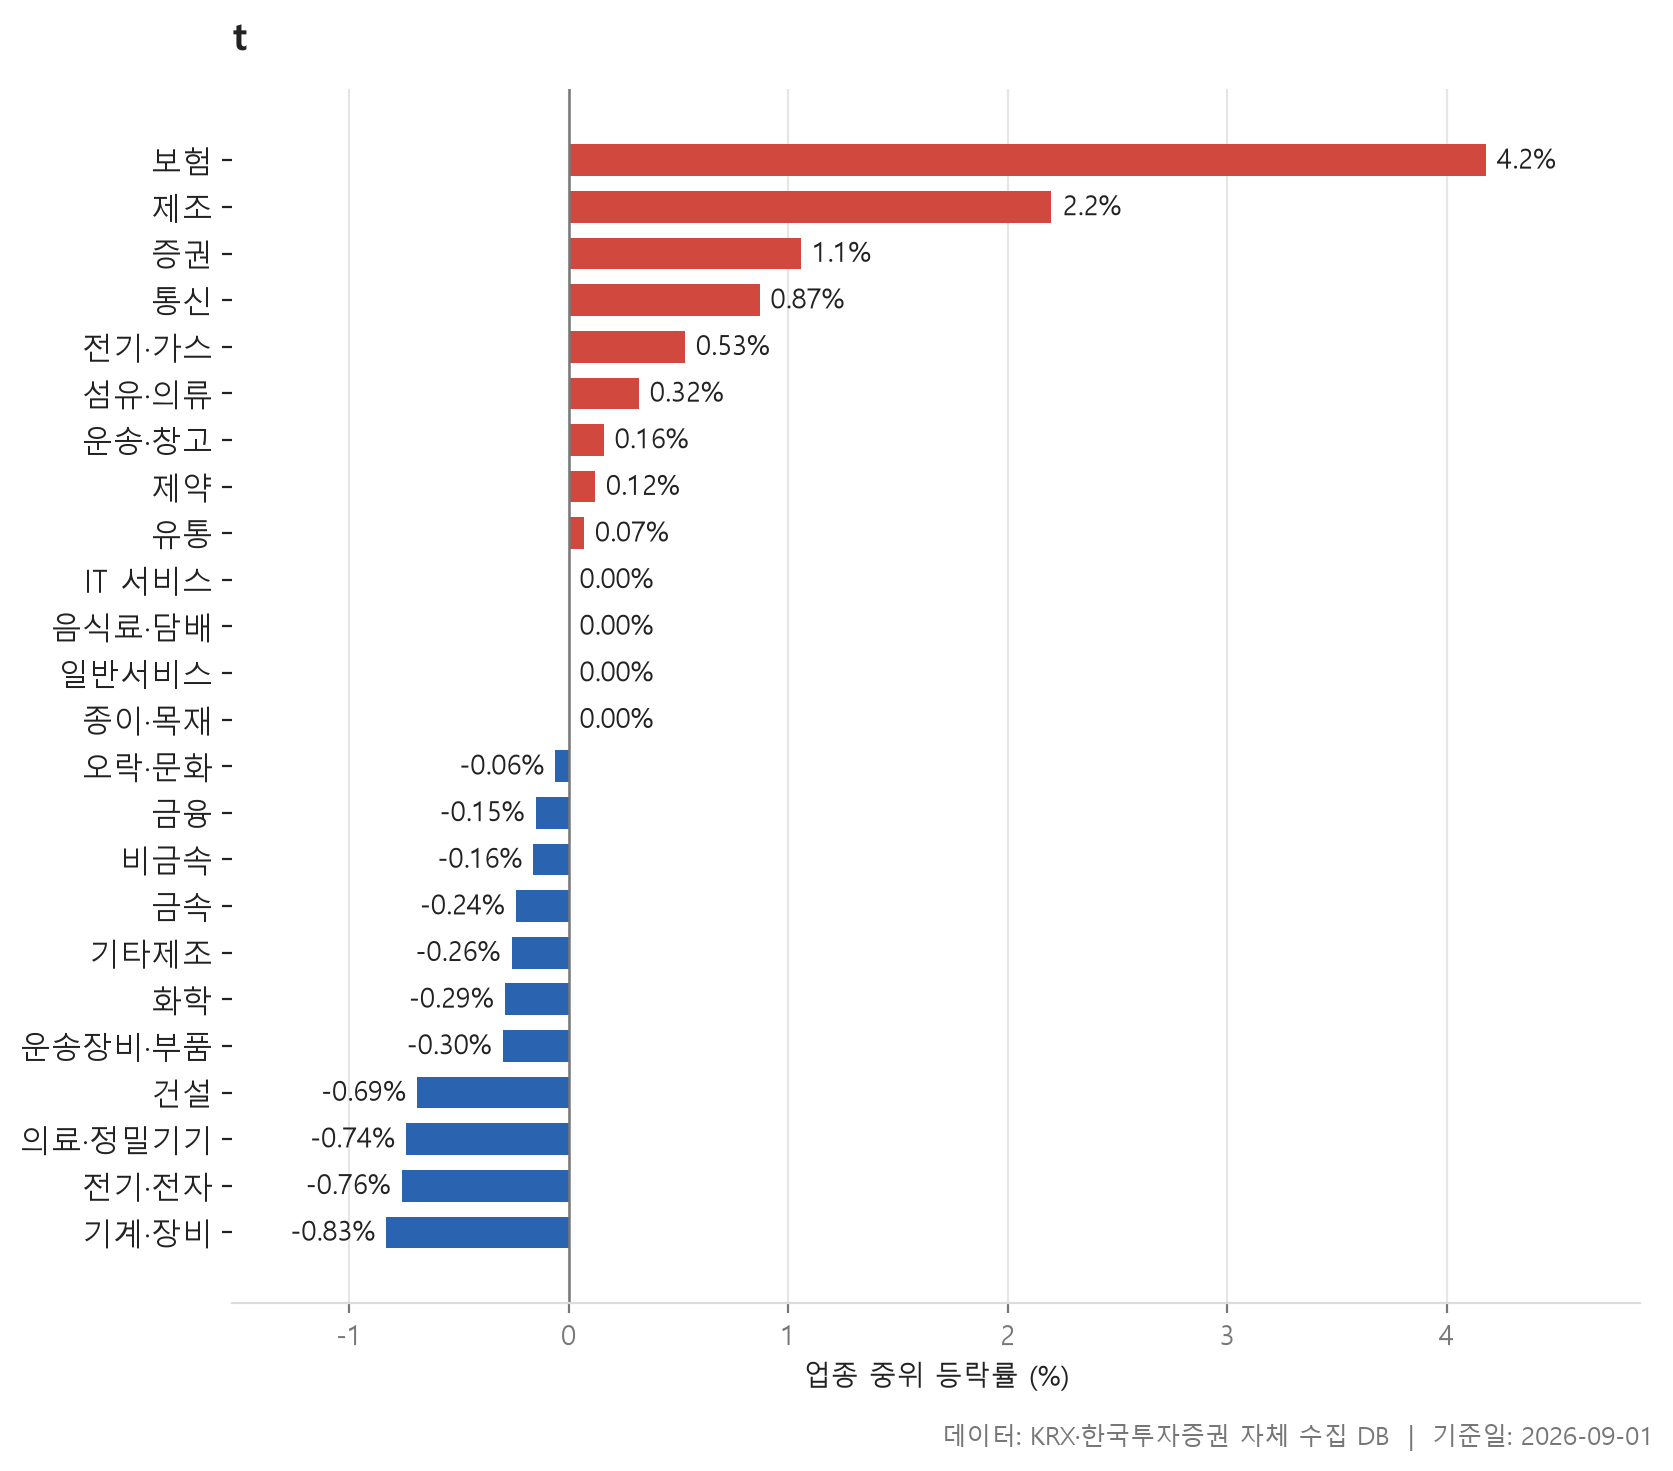
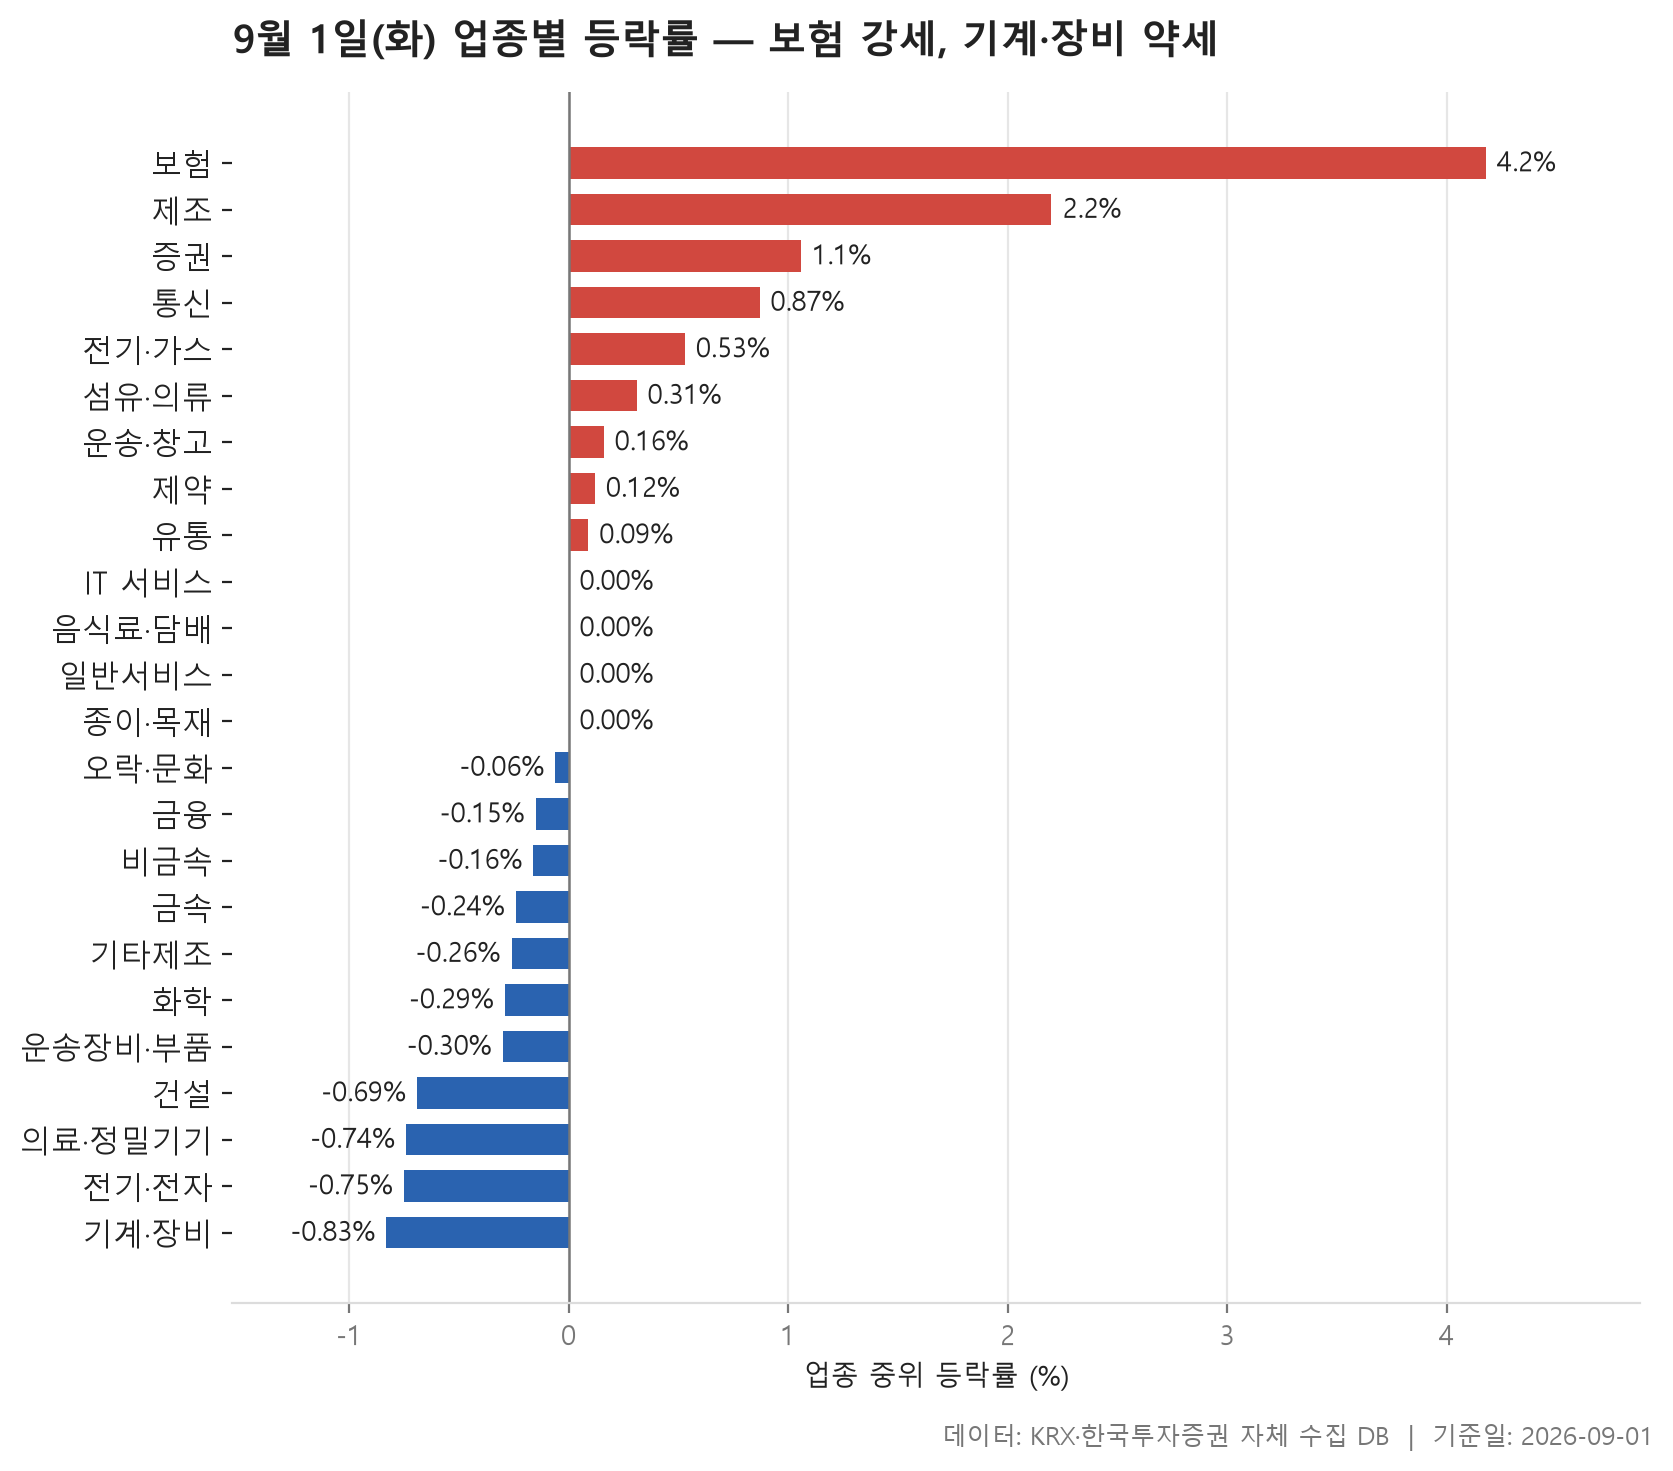
9/1 일간 글 숫자를 새 데이터에 맞춤
백필로 여섯 업종에서 종목이 하나씩 빠지면서 값이 움직였고, 초안이 다시 만든
데이터팩과 어긋나 재발행이 막혀 있었다. 문장은 그대로 두고 숫자만 고쳤다.

    본문 5곳   0.32->0.31  1.81->1.39  0.60->0.61
               168개->167개  115,673.80->115,673.10  -0.76->-0.75
    표  6행    섬유·의류 제약 유통 IT서비스 의료·정밀기기 전기·전자

고치기 전에 문장이 바뀐 값으로도 참인지 확인했다.

    "중위 0.31%인데 평균이 1.39%"          중위 < 평균 유지
    "평균기여도가 0.61%p인데 격차는 더 큽니다"  격차 1.08%p > 0.61%p 유지
    "115,673.10억원으로 압도적"            여전히 최대

팩트체커가 못 잡은 것이 둘 있었다. 제약 종목수 168 은 다른 행에도 168 이
있어 원장을 통과했고, 의료·정밀기기 99 는 본문의 "99,484주" 와 겹쳤다.
원장 대조만으로는 "값이 맞는 자리에 있는가" 까지는 보지 못한다.

diff --git a/content/posts/2026-09-01-daily-market/index.md b/content/posts/2026-09-01-daily-market/index.md
@@ -1,7 +1,7 @@
 ---
 title: "9월 1일(화) 오늘의 시장 — 보험 강세, 기계·장비 약세"
 date: 2026-09-01T16:10:00+09:00
-lastmod: 2026-09-01T19:28:15+09:00
+lastmod: 2026-09-03T17:24:11+09:00
 description: "업종 흐름, 52주 신고가·신저가, 거래량이 터진 종목을 한 번에 정리했습니다."
 categories: ["오늘의 시장"]
 draft: false
@@ -9,7 +9,7 @@ sourcePack: "blog/output/2026-09-01/2026-09-01-daily-market/pack.json"
 ---
 9월 1일 화요일 장이 끝났습니다. 오늘 시장은 한마디로 정리하기가 애매한 날이었습니다. 24개 업종 중 9개가 플러스, 11개가 마이너스였고, 업종 중위 등락률을 줄 세웠을 때 딱 가운데 놓인 값이 0%였습니다. 지수 한 방향으로 쏠린 날이 아니라, 업종별로 갈라진 날이라는 뜻입니다.
 
-다만 양쪽 끝은 분명했습니다. 위쪽 끝은 보험(4.18%), 아래쪽 끝은 기계·장비(-0.83%). 보험은 11개 종목 전부가 올랐고, 기계·장비는 207개 종목 중 상승비율이 32.90%에 그쳤습니다. 같은 날 신고가 명단 맨 위에도 보험 종목이 있고, 신저가 명단 맨 위에도 기계·장비 종목이 있으니 업종 표와 신고·신저가 표가 서로 같은 방향을 가리킨 셈입니다.
+다만 양쪽 끝은 분명했습니다. 위쪽 끝은 보험(4.18%), 아래쪽 끝은 기계·장비(<span class="chg chg-down">-0.83%</span>). 보험은 11개 종목 전부가 올랐고, 기계·장비는 207개 종목 중 상승비율이 32.90%에 그쳤습니다. 같은 날 신고가 명단 맨 위에도 보험 종목이 있고, 신저가 명단 맨 위에도 기계·장비 종목이 있으니 업종 표와 신고·신저가 표가 서로 같은 방향을 가리킨 셈입니다.
 
 아래에서는 업종 등락률, 52주 신고가 6개, 52주 신저가 2개, 그리고 거래량이 20일 평균의 5배를 넘은 20개 종목을 차례로 봅니다. 표에 적힌 숫자 안에서만 이야기하고, 왜 그렇게 움직였는지는 이 자료로 알 수 없으니 짐작하지 않겠습니다.
 
@@ -17,13 +17,13 @@ sourcePack: "blog/output/2026-09-01/2026-09-01-daily-market/pack.json"
 
 ## 업종 등락률 — 24개 중 11개 하락
 
-보시면 상위권이 유별나게 두껍지 않습니다. 보험이 4.18%로 혼자 앞서 있고, 그다음 제조가 2.20%, 그 아래 증권 1.06%로 뚝 떨어집니다. 4위 통신부터는 이미 0%대이고, 10위권에 들어서면 0.00%가 세 업종이나 나옵니다. 즉 오늘 '강했다'고 말할 수 있는 업종은 사실상 세 개 정도이고, 중간층은 거의 제자리였습니다. 반대로 하위권은 -0.06%부터 -0.83%까지 완만하게 내려가, 특별히 무너진 업종 없이 얕고 넓게 눌린 형태입니다.
+보시면 상위권이 유별나게 두껍지 않습니다. 보험이 4.18%로 혼자 앞서 있고, 그다음 제조가 2.20%, 그 아래 증권 1.06%로 뚝 떨어집니다. 4위 통신부터는 이미 0%대이고, 10위권에 들어서면 0.00%가 세 업종이나 나옵니다. 즉 오늘 '강했다'고 말할 수 있는 업종은 사실상 세 개 정도이고, 중간층은 거의 제자리였습니다. 반대로 하위권은 <span class="chg chg-down">-0.06%</span>부터 <span class="chg chg-down">-0.83%</span>까지 완만하게 내려가, 특별히 무너진 업종 없이 얕고 넓게 눌린 형태입니다.
 
 보험은 이 표에서 가장 깔끔한 항목입니다. 종목수 11개에 상승비율 100.00%, 중위 4.18%인데 평균은 3.53%로 오히려 중위보다 낮습니다. 주도종목 DB손해보험이 6.35%였지만 평균기여도는 0.58%p에 불과하니, 한 종목이 끌어올린 그림이 아니라 업종 전체가 함께 올라간 뒤 상단이 조금 더 벌어진 모습으로 읽힙니다. 이런 형태는 오늘 표에서 보험 말고는 찾기 어렵습니다.
 
-어긋나 보이는 대목은 중위값과 평균이 벌어진 업종들입니다. 섬유·의류는 중위 0.32%인데 평균이 1.81%입니다. 주도종목 인디에프가 29.98%로 상한가 수준이고 평균기여도가 0.60%p인데, 격차는 그보다 큽니다. 인디에프 하나만으로 설명되지 않고 다른 종목들도 함께 올랐다는 뜻이죠. 통신도 중위 0.87%에 평균 2.03%, 주도종목 더즌 10.70%에 기여도 0.89%p로 비슷한 구조입니다. 반대로 전기·가스는 중위 0.53%에 평균 0.01%, 주도종목 SGC에너지가 -6.31%로 기여도 -0.63%p이니, 여기서는 아래쪽 한 종목이 평균을 눌러 놓은 쪽에 가깝습니다.
+어긋나 보이는 대목은 중위값과 평균이 벌어진 업종들입니다. 섬유·의류는 중위 0.31%인데 평균이 1.39%입니다. 주도종목 인디에프가 29.98%로 상한가 수준이고 평균기여도가 0.61%p인데, 격차는 그보다 큽니다. 인디에프 하나만으로 설명되지 않고 다른 종목들도 함께 올랐다는 뜻이죠. 통신도 중위 0.87%에 평균 2.03%, 주도종목 더즌 10.70%에 기여도 0.89%p로 비슷한 구조입니다. 반대로 전기·가스는 중위 0.53%에 평균 0.01%, 주도종목 SGC에너지가 <span class="chg chg-down">-6.31%</span>로 기여도 -0.63%p이니, 여기서는 아래쪽 한 종목이 평균을 눌러 놓은 쪽에 가깝습니다.
 
-하위권에서는 건설이 눈에 걸립니다. 중위 -0.69%로 최하위는 아닌데 상승비율이 24.50%로 표 전체에서 가장 낮습니다. 오르는 종목이 넷 중 하나뿐이었다는 뜻입니다. 그런데 주도종목은 우진아이엔에스로 11.12% 상승이었습니다. 폭이 큰 종목은 위쪽에 있는데 종목 대부분은 내린, 안이 갈린 업종입니다. 기계·장비 역시 중위는 -0.83%로 최하위지만 주도종목 한울반도체는 29.94%였습니다. 거래대금 쪽에서는 전기·전자가 115,673.80억원으로 압도적인데 중위 등락률은 -0.76%. 돈이 가장 많이 오간 자리가 가장 강한 자리는 아니었습니다.
+하위권에서는 건설이 눈에 걸립니다. 중위 <span class="chg chg-down">-0.69%</span>로 최하위는 아닌데 상승비율이 24.50%로 표 전체에서 가장 낮습니다. 오르는 종목이 넷 중 하나뿐이었다는 뜻입니다. 그런데 주도종목은 우진아이엔에스로 11.12% 상승이었습니다. 폭이 큰 종목은 위쪽에 있는데 종목 대부분은 내린, 안이 갈린 업종입니다. 기계·장비 역시 중위는 <span class="chg chg-down">-0.83%</span>로 최하위지만 주도종목 한울반도체는 29.94%였습니다. 거래대금 쪽에서는 전기·전자가 115,673.10억원으로 압도적인데 중위 등락률은 <span class="chg chg-down">-0.75%</span>. 돈이 가장 많이 오간 자리가 가장 강한 자리는 아니었습니다.
 
 ![업종 등락률 차트](chart-sector-change.png)
 
@@ -34,11 +34,11 @@ sourcePack: "blog/output/2026-09-01/2026-09-01-daily-market/pack.json"
 | 증권 | 17 | 1.06 | 0.69 | 70.60 | 다올투자증권 | 2.49 | 0.15 | 912.50 |
 | 통신 | 12 | 0.87 | 2.03 | 75.00 | 더즌 | 10.70 | 0.89 | 1,103.70 |
 | 전기·가스 | 10 | 0.53 | 0.01 | 70.00 | SGC에너지 | -6.31 | -0.63 | 516.40 |
-| 섬유·의류 | 50 | 0.32 | 1.81 | 60.00 | 인디에프 | 29.98 | 0.60 | 1,045.50 |
+| 섬유·의류 | 49 | 0.31 | 1.39 | 59.20 | 인디에프 | 29.98 | 0.61 | 939.10 |
 | 운송·창고 | 28 | 0.16 | -0.23 | 57.10 | STX그린로지스 | -6.79 | -0.24 | 1,509.70 |
-| 제약 | 168 | 0.12 | 0.88 | 52.40 | JW신약 | 30.00 | 0.18 | 10,345.00 |
-| 유통 | 153 | 0.07 | 0.48 | 50.30 | 온타이드 | 30.00 | 0.20 | 5,478.90 |
-| IT 서비스 | 244 | 0.00 | 0.16 | 43.90 | 아이크래프트 | -25.60 | -0.10 | 5,928.50 |
+| 제약 | 167 | 0.12 | 0.90 | 52.70 | JW신약 | 30.00 | 0.18 | 10,343.10 |
+| 유통 | 152 | 0.09 | 0.49 | 50.70 | 온타이드 | 30.00 | 0.20 | 5,470.10 |
+| IT 서비스 | 243 | 0.00 | 0.17 | 44.00 | 아이크래프트 | -25.60 | -0.11 | 5,927.40 |
 | 음식료·담배 | 82 | 0.00 | 0.16 | 46.30 | 체리부로 | 7.46 | 0.09 | 1,461.40 |
 | 일반서비스 | 165 | 0.00 | 0.07 | 43.00 | 박셀바이오 | 26.59 | 0.16 | 6,315.50 |
 | 종이·목재 | 27 | 0.00 | -0.18 | 48.10 | 페이퍼코리아 | 5.11 | 0.19 | 68.00 |
@@ -50,8 +50,8 @@ sourcePack: "blog/output/2026-09-01/2026-09-01-daily-market/pack.json"
 | 화학 | 219 | -0.29 | -0.51 | 38.40 | 코이즈 | -15.72 | -0.07 | 13,237.00 |
 | 운송장비·부품 | 132 | -0.30 | -0.09 | 43.20 | 네오티스 | -10.24 | -0.08 | 8,281.80 |
 | 건설 | 49 | -0.69 | -0.49 | 24.50 | 우진아이엔에스 | 11.12 | 0.23 | 4,762.80 |
-| 의료·정밀기기 | 99 | -0.74 | -0.81 | 31.30 | 마이크로디지탈 | -29.99 | -0.30 | 1,881.80 |
-| 전기·전자 | 370 | -0.76 | -0.39 | 34.10 | 비에이치 | 20.68 | 0.06 | 115,673.80 |
+| 의료·정밀기기 | 98 | -0.74 | -0.78 | 31.60 | 마이크로디지탈 | -29.99 | -0.31 | 1,651.30 |
+| 전기·전자 | 369 | -0.75 | -0.39 | 34.10 | 비에이치 | 20.68 | 0.06 | 115,673.10 |
 | 기계·장비 | 207 | -0.83 | -0.31 | 32.90 | 한울반도체 | 29.94 | 0.14 | 10,461.90 |
 
 ## 52주 신고가 6개 — 최고 인디에프 29.98%
@@ -77,9 +77,9 @@ sourcePack: "blog/output/2026-09-01/2026-09-01-daily-market/pack.json"
 
 ## 52주 신저가 2개 — 최저 SK디앤디 -11.62%
 
-신저가는 단 2개입니다. 앞 섹션의 신고가 6개와 비교하면 수는 적지만, 폭은 오히려 신저가 쪽이 거칩니다. 등락률 중위값이 -7.86%로, 신고가 명단의 중위값보다 절대값이 크죠. 오늘 아래쪽으로 밀린 종목은 수가 적은 대신 한 번에 크게 밀렸습니다.
+신저가는 단 2개입니다. 앞 섹션의 신고가 6개와 비교하면 수는 적지만, 폭은 오히려 신저가 쪽이 거칩니다. 등락률 중위값이 <span class="chg chg-down">-7.86%</span>로, 신고가 명단의 중위값보다 절대값이 크죠. 오늘 아래쪽으로 밀린 종목은 수가 적은 대신 한 번에 크게 밀렸습니다.
 
-뉴로메카는 17,760원으로 마감해 이전 52주 최저가 17,860원을 밑돌았습니다. 등락률은 -4.10%로 두 종목 중 덜 빠진 쪽인데, 이전 최저가와의 간격이 좁아 하락폭이 크지 않아도 기준선을 넘어섰습니다. SK디앤디는 -11.62%로 훨씬 크게 내려 3,650원, 이전 최저 3,685원 아래로 갔습니다. 하락률과 최저가 돌파 사이에 정해진 비례가 없다는 점을 보여주는 대비입니다.
+뉴로메카는 17,760원으로 마감해 이전 52주 최저가 17,860원을 밑돌았습니다. 등락률은 <span class="chg chg-down">-4.10%</span>로 두 종목 중 덜 빠진 쪽인데, 이전 최저가와의 간격이 좁아 하락폭이 크지 않아도 기준선을 넘어섰습니다. SK디앤디는 <span class="chg chg-down">-11.62%</span>로 훨씬 크게 내려 3,650원, 이전 최저 3,685원 아래로 갔습니다. 하락률과 최저가 돌파 사이에 정해진 비례가 없다는 점을 보여주는 대비입니다.
 
 업종을 보면 뉴로메카가 기계·장비입니다. 오늘 중위 등락률이 가장 낮았던 업종이 신저가 명단에도 이름을 올린 셈이고, 뒤에 볼 거래량 급증 표에서도 기계·장비가 등장합니다. 같은 업종 안에서 신저가와 급등이 함께 나오는 상황인데, 그 이유는 이 자료에 없으니 여기서 멈추겠습니다. SK디앤디의 부동산 업종은 종목수 5개 이상 조건에 걸려 섹션 1의 업종 표에는 들어 있지 않습니다.
 
@@ -96,9 +96,9 @@ sourcePack: "blog/output/2026-09-01/2026-09-01-daily-market/pack.json"
 
 다만 배수가 크다는 것과 돈이 많이 오갔다는 것은 다릅니다. 배수 1위 제이티의 거래대금은 77.80억원이고 시가총액은 502억원으로 이 표에서 가장 작은 편입니다. 반대로 배수 순서로 중간쪽에 있는 현대약품은 거래대금이 1,498.10억원으로 표에서 가장 많습니다. 레뷰코퍼레이션은 21.60배인데 거래대금이 6.20억원, 거래량은 99,484주에 불과합니다. 평소 거래가 워낙 적었던 종목이라 배수가 크게 나온 경우로 보이니, 배수만 보고 '큰 손이 들어왔다'고 읽으면 어긋납니다. 시가총액에서도 가장 큰 종목이 부광약품 4,322억원이니, 이 표는 전반적으로 중소형 구간의 이야기입니다.
 
-방향도 한쪽이 아닙니다. 대부분은 상승이지만 레뷰코퍼레이션은 -2.90%로 거래량만 21.60배 늘었습니다. 신신제약(0.75%)과 애경산업(1.26%)은 배수가 각각 18.10배, 16.50배인데 등락률은 1% 안팎에 머물렀습니다. 거래가 몰렸어도 종가가 크게 움직이지 않은 경우가 섞여 있다는 뜻입니다. 반면 현대약품 29.94%, 삼익제약 26.72%, 바이오니아 25.14%처럼 상한가 근처까지 간 종목들도 있습니다.
+방향도 한쪽이 아닙니다. 대부분은 상승이지만 레뷰코퍼레이션은 <span class="chg chg-down">-2.90%</span>로 거래량만 21.60배 늘었습니다. 신신제약(0.75%)과 애경산업(1.26%)은 배수가 각각 18.10배, 16.50배인데 등락률은 1% 안팎에 머물렀습니다. 거래가 몰렸어도 종가가 크게 움직이지 않은 경우가 섞여 있다는 뜻입니다. 반면 현대약품 29.94%, 삼익제약 26.72%, 바이오니아 25.14%처럼 상한가 근처까지 간 종목들도 있습니다.
 
-업종 분포는 13개로 흩어져 있지만 제약이 7개로 눈에 띕니다. 정작 섹션 1에서 제약 업종의 중위 등락률은 0.12%였습니다. 168개 종목의 중간값은 거의 제자리인데, 거래량이 터진 종목은 이 업종에서 가장 많이 나오는 겁니다. 업종 전체가 들썩인 게 아니라 몇 종목에 거래가 몰린 형태로 읽힙니다. 시장별로는 KOSDAQ이 15개, KOSPI가 5개.
+업종 분포는 13개로 흩어져 있지만 제약이 7개로 눈에 띕니다. 정작 섹션 1에서 제약 업종의 중위 등락률은 0.12%였습니다. 167개 종목의 중간값은 거의 제자리인데, 거래량이 터진 종목은 이 업종에서 가장 많이 나오는 겁니다. 업종 전체가 들썩인 게 아니라 몇 종목에 거래가 몰린 형태로 읽힙니다. 시장별로는 KOSDAQ이 15개, KOSPI가 5개.
 
 ![거래량 급증 차트](chart-volume-ratio.png)
 
